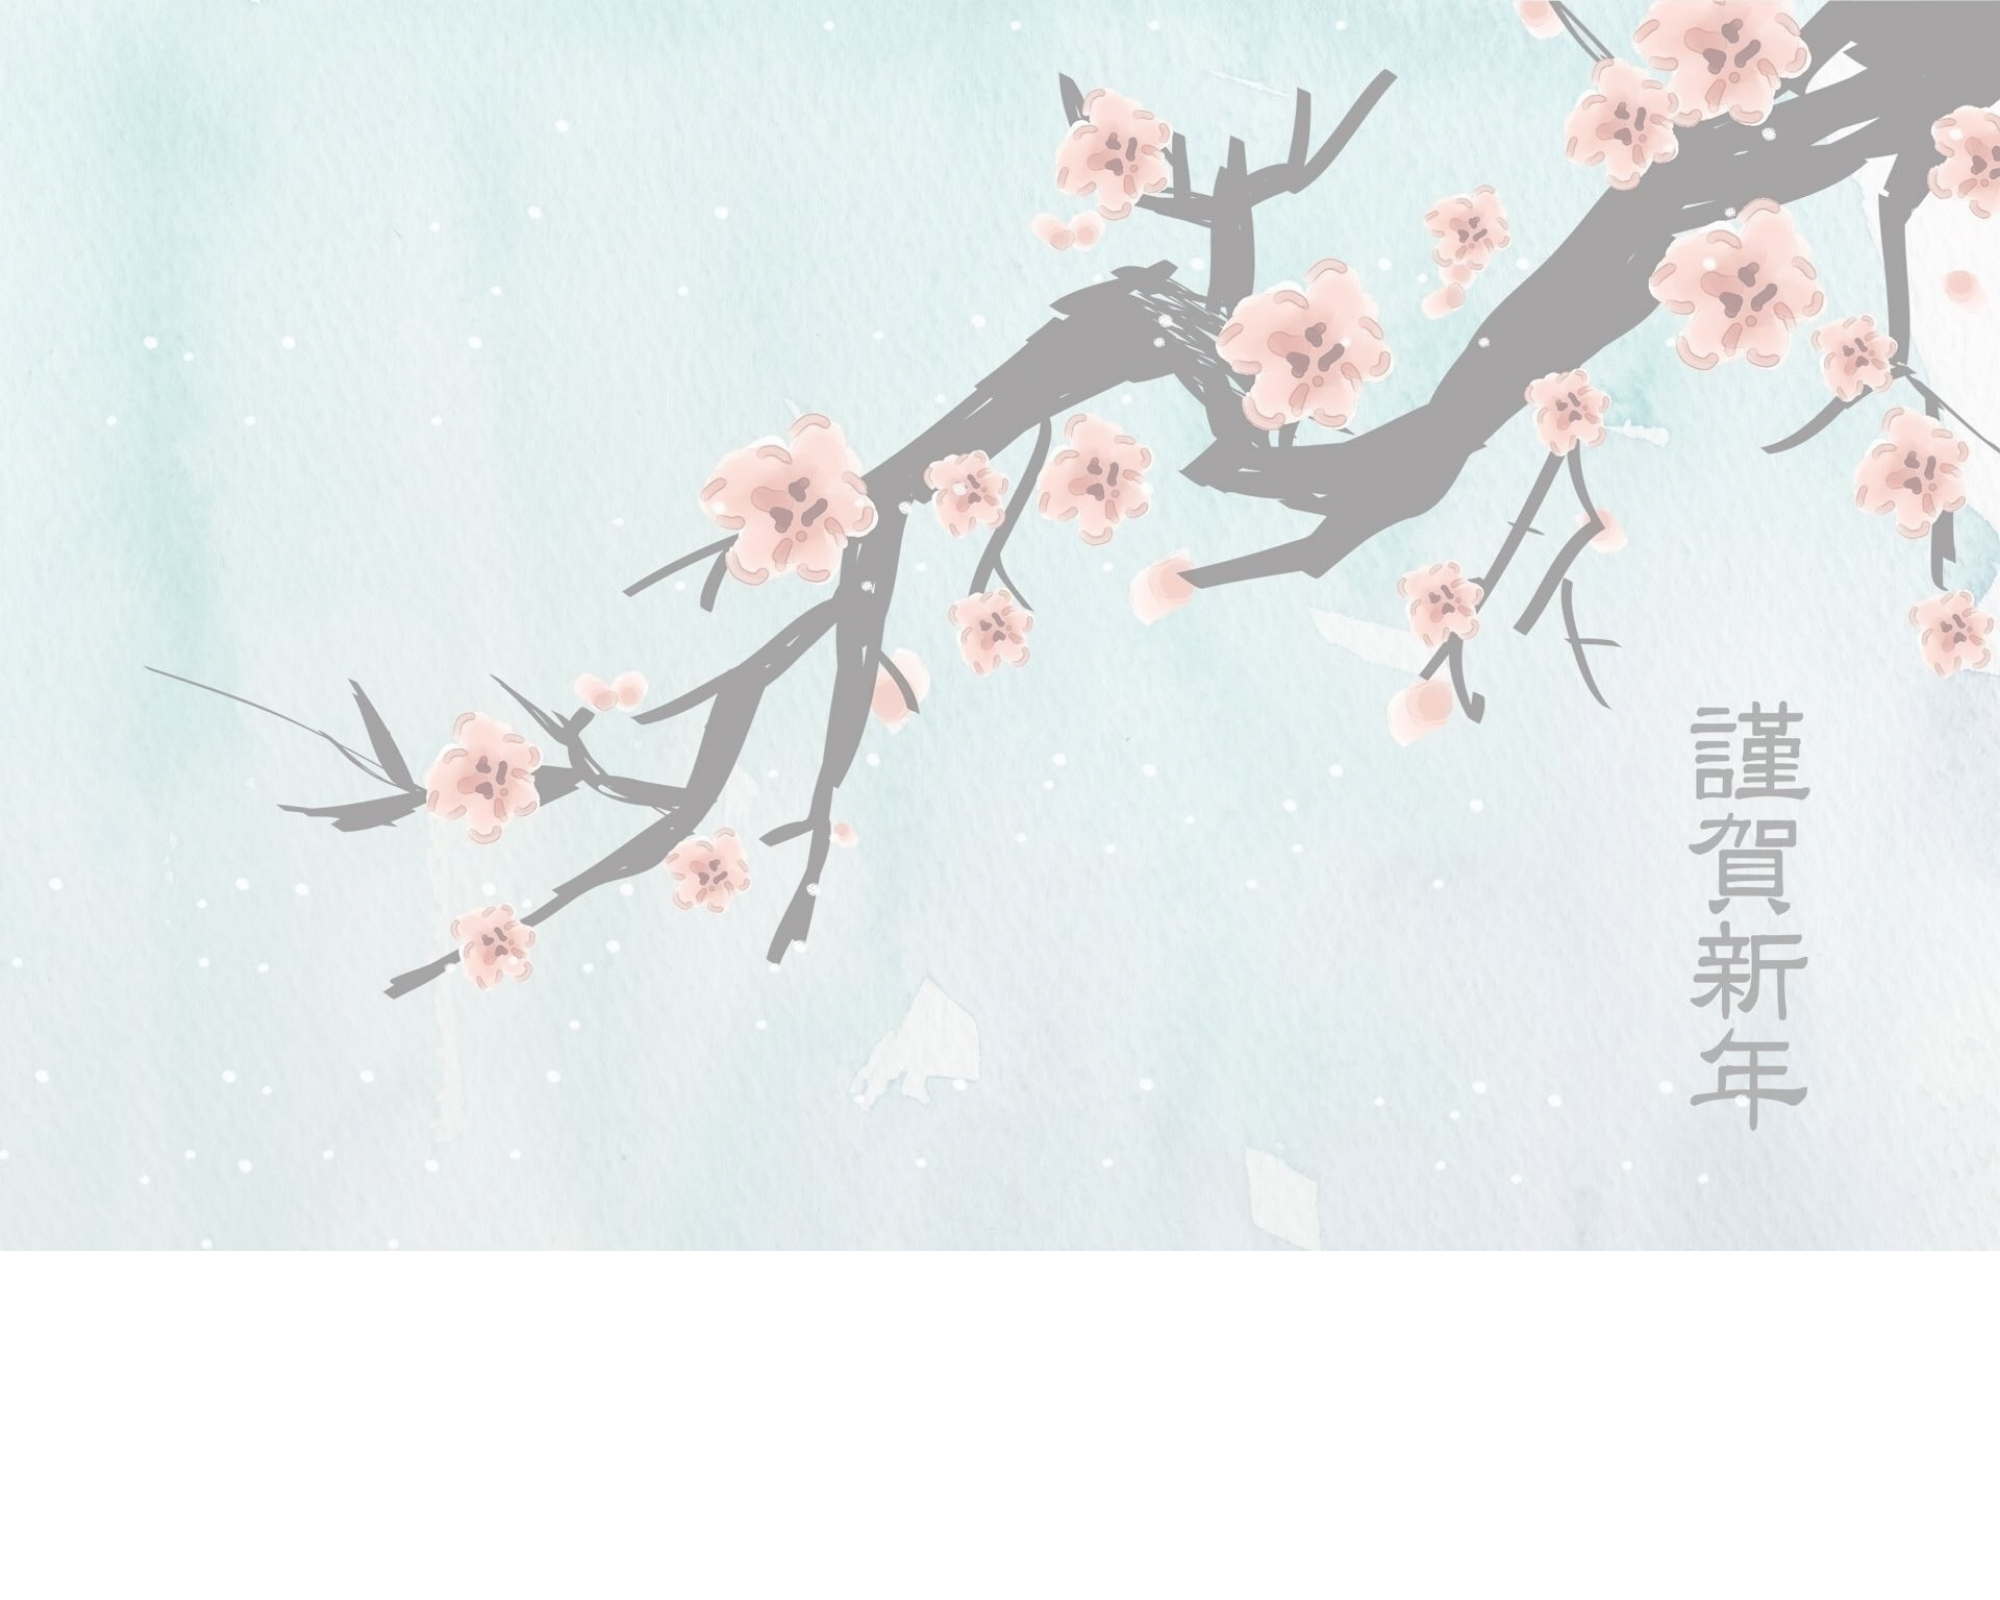
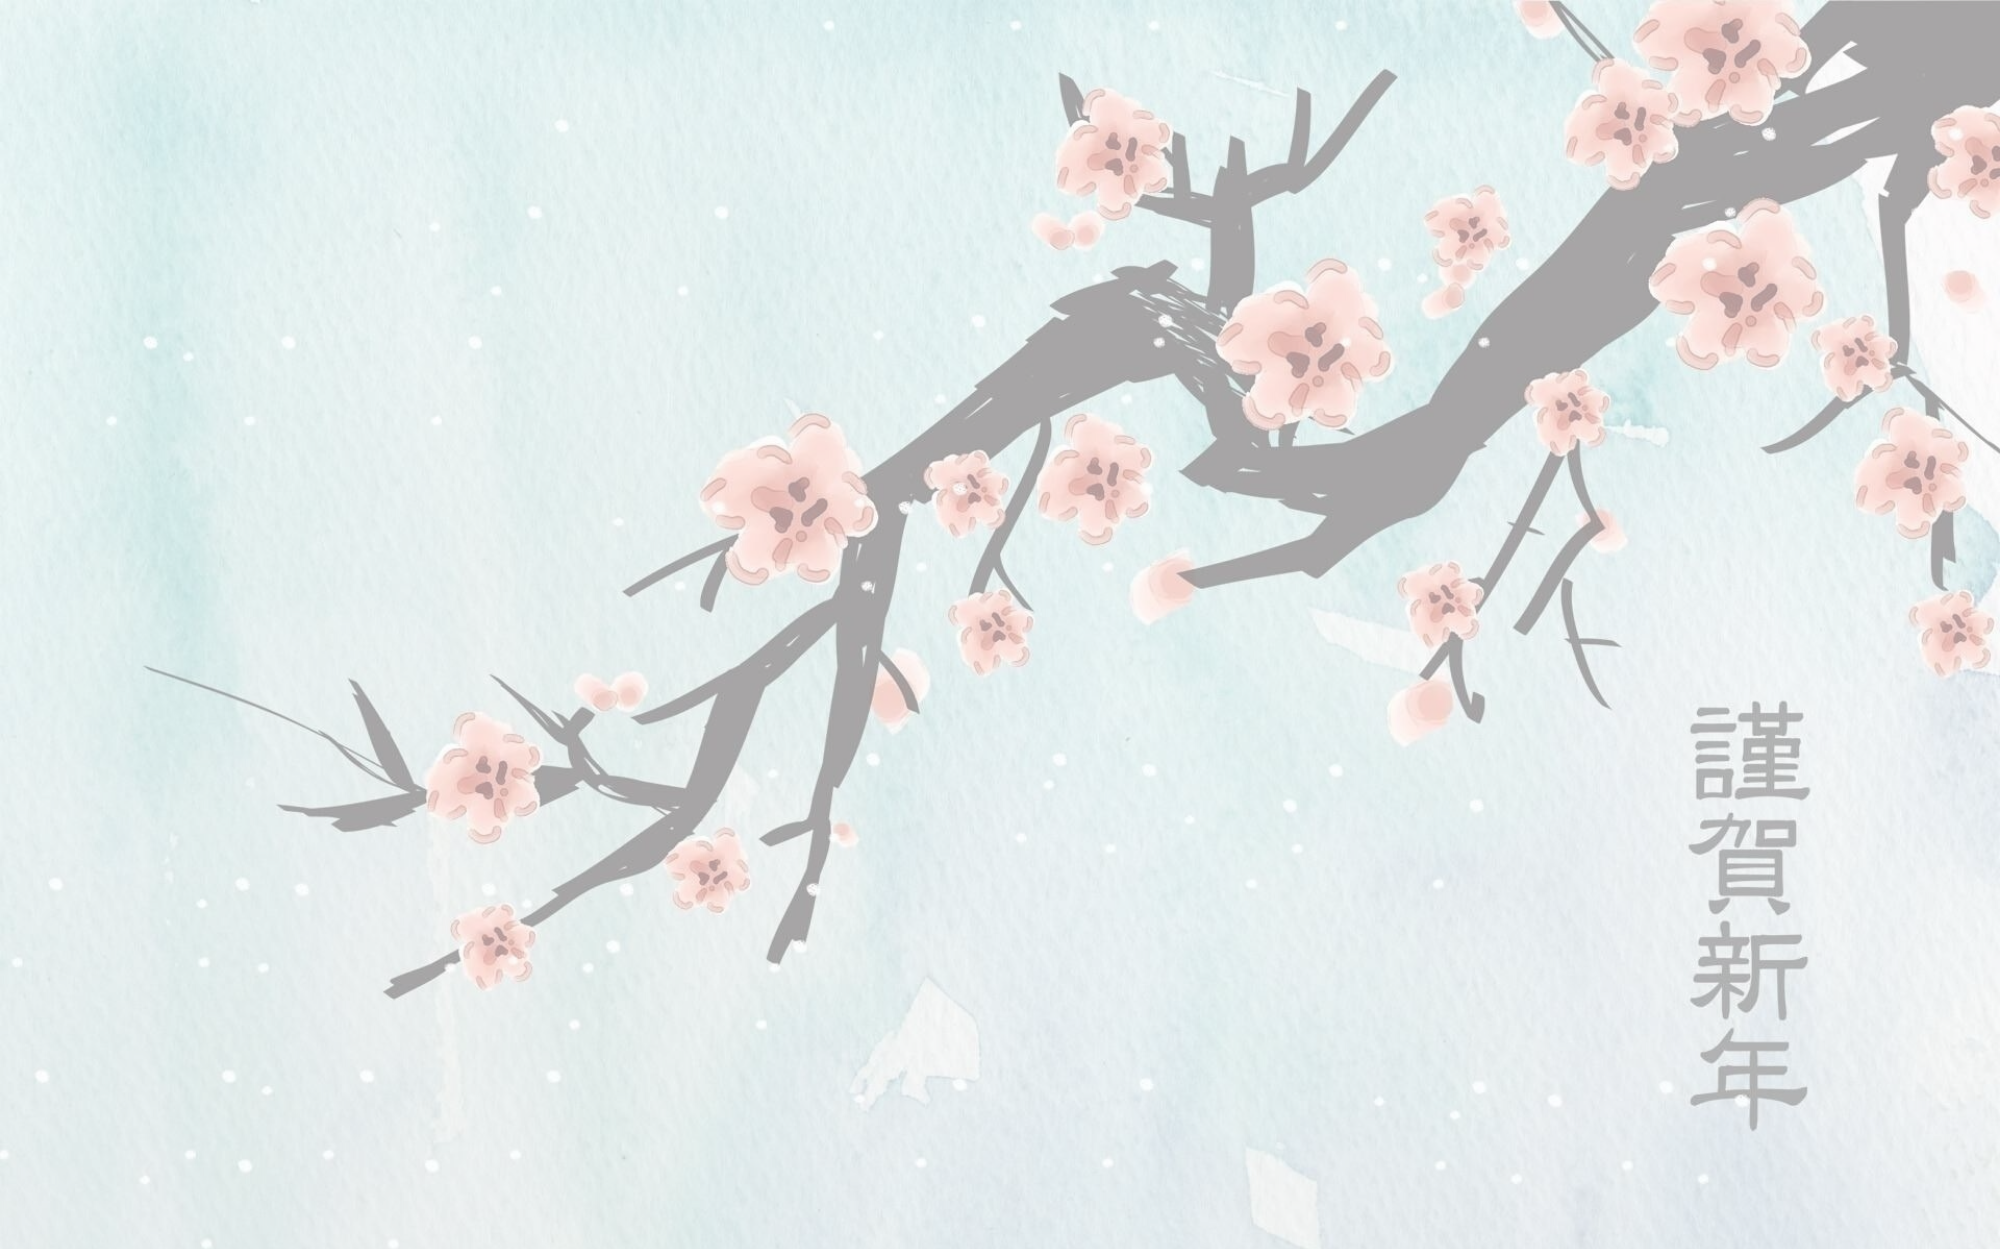
Update dictionary

Changed region(s): [[0.155, 0.0, 1.0, 1.0], [0.0, 0.7806, 0.217, 1.0], [0.868, 0.3435, 0.899, 0.3747]]

diff --git a/app/assets/stylesheets/dict.scss b/app/assets/stylesheets/dict.scss
@@ -1,0 +1,59 @@
+@import "bootstrap-sprockets";
+@import "bootstrap";
+$bgblue: #003399;
+$color_hover: #cc3333;
+
+#dict_title{
+    text-align: center;
+    font-size: 50px;
+    font-weight: bold;
+    color: $color_hover;
+    margin-top: 30px;
+    margin-bottom: 10px;
+
+}
+#search-word{
+    height: 40px;
+    padding: 5px 15px;
+    width: 55%;
+    margin-left: 20%;
+    margin-right: 10px;
+    margin-top: 30px;
+    border-radius: 8px;
+    border:1px solid $bgblue;
+    font-size: 15px;
+}
+
+.mean-content{
+    font-size: 15px;
+    margin-left: 15%;
+    margin-right: 15%;
+    color: $bgblue;
+    h3{
+        font-size: 25px;
+        color: $color_hover;
+        font-weight: bold;
+        margin-top: 30px;
+        margin-bottom: 30px;
+    }
+    table{
+        margin: 10px;
+        margin-left: 5%;
+        margin-bottom: 30px;
+        #kanji{
+            font-size: 20px;
+            font-weight: 500;
+        }
+        td{
+            width: 20%;
+            font-weight: normal;
+            vertical-align: center;
+            height: 50px;
+        } 
+        tr{
+            margin-top: 10px;
+            border-bottom: solid 1px $color_hover;
+        }
+    }
+
+}

diff --git a/app/javascript/packs/application.js b/app/javascript/packs/application.js
@@ -8,10 +8,11 @@ require("turbolinks").start()
 require("@rails/activestorage").start()
 require("channels")
 
-//= require jquery3
+//= require jquery
+//= require jquery_ujs
 //= require popper
 //= require bootstrap-sprockets
-// require_tree .
+//= require_tree .
 // Uncomment to copy all static images under ../images to the output folder and reference
 // them with the image_pack_tag helper in views (e.g <%= image_pack_tag 'rails.png' %>)
 // or the `imagePath` JavaScript helper below.

diff --git a/app/assets/stylesheets/homepage.scss b/app/assets/stylesheets/homepage.scss
@@ -29,7 +29,7 @@ header{
     margin-right: 0px;
     padding-right: 0px;
     background: url(2.png) no-repeat;
-    background-size: cover;
+    background-size: 100% 100%;
     position: relative;
     min-height: 800px;
 }
@@ -125,8 +125,8 @@ img{
     color: $color_hover;
     line-height: 1em;
     height: 60px;
-    position: fixed;
-    bottom: 0px;
+    position: absolute;
+    top: 100%;
     width: 100%;
     background-color: #cccccc;
         .col-6{

diff --git a/app/javascript/channels/index.js b/app/javascript/channels/index.js
@@ -2,4 +2,4 @@
 // Channel files must be named *_channel.js.
 
 const channels = require.context('.', true, /_channel\.js$/)
-channels.keys().forEach(channels)
+channels.keys().forEach(channels);

diff --git a/test_api.rb b/test_api.rb
@@ -1,0 +1,10 @@
+require "net/http"
+require "json"
+
+#  Định nghĩa URL, chính xác là tạo một đối tượng URI từ URL đó
+url = "https://api.stackexchange.com/2.2/tags?order=desc&sort=popular&inname=ruby&site=stackoverflow"
+uri = URI(url)
+#  Gửi HTTP Request với method get
+response = Net::HTTP.get(uri)
+#  Xử lý kết quả trả về, ở đây mình chỉ in ra đoạn JSON trả về
+puts JSON.parse(response)["items"][0]

diff --git a/app/controllers/homepage_controller.rb b/app/controllers/homepage_controller.rb
@@ -1,2 +1,3 @@
 class HomepageController < ApplicationController
+
 end
